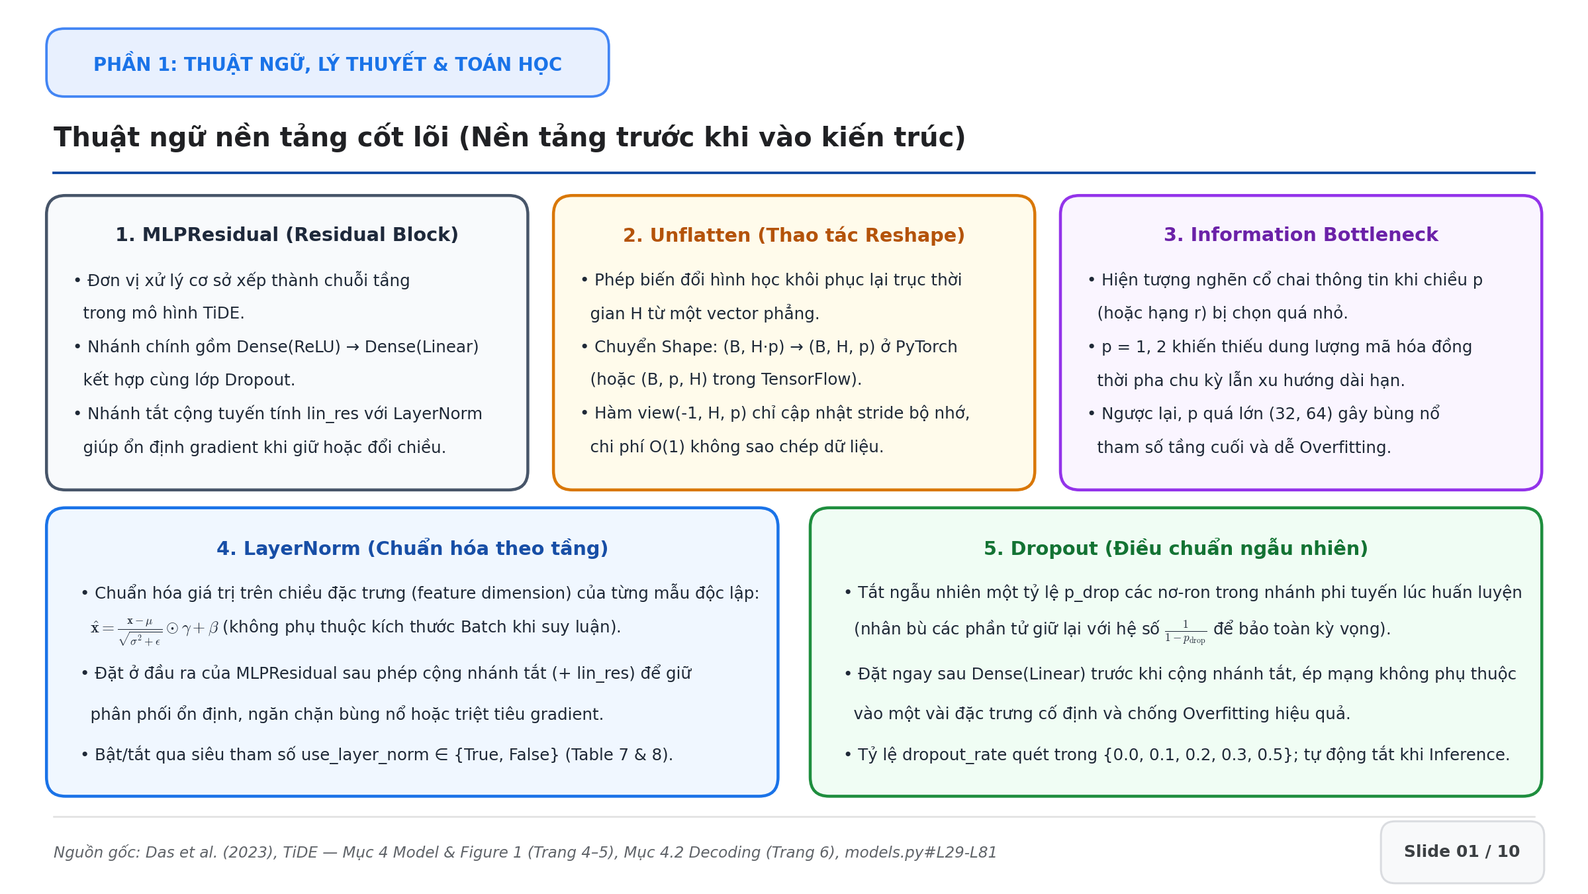
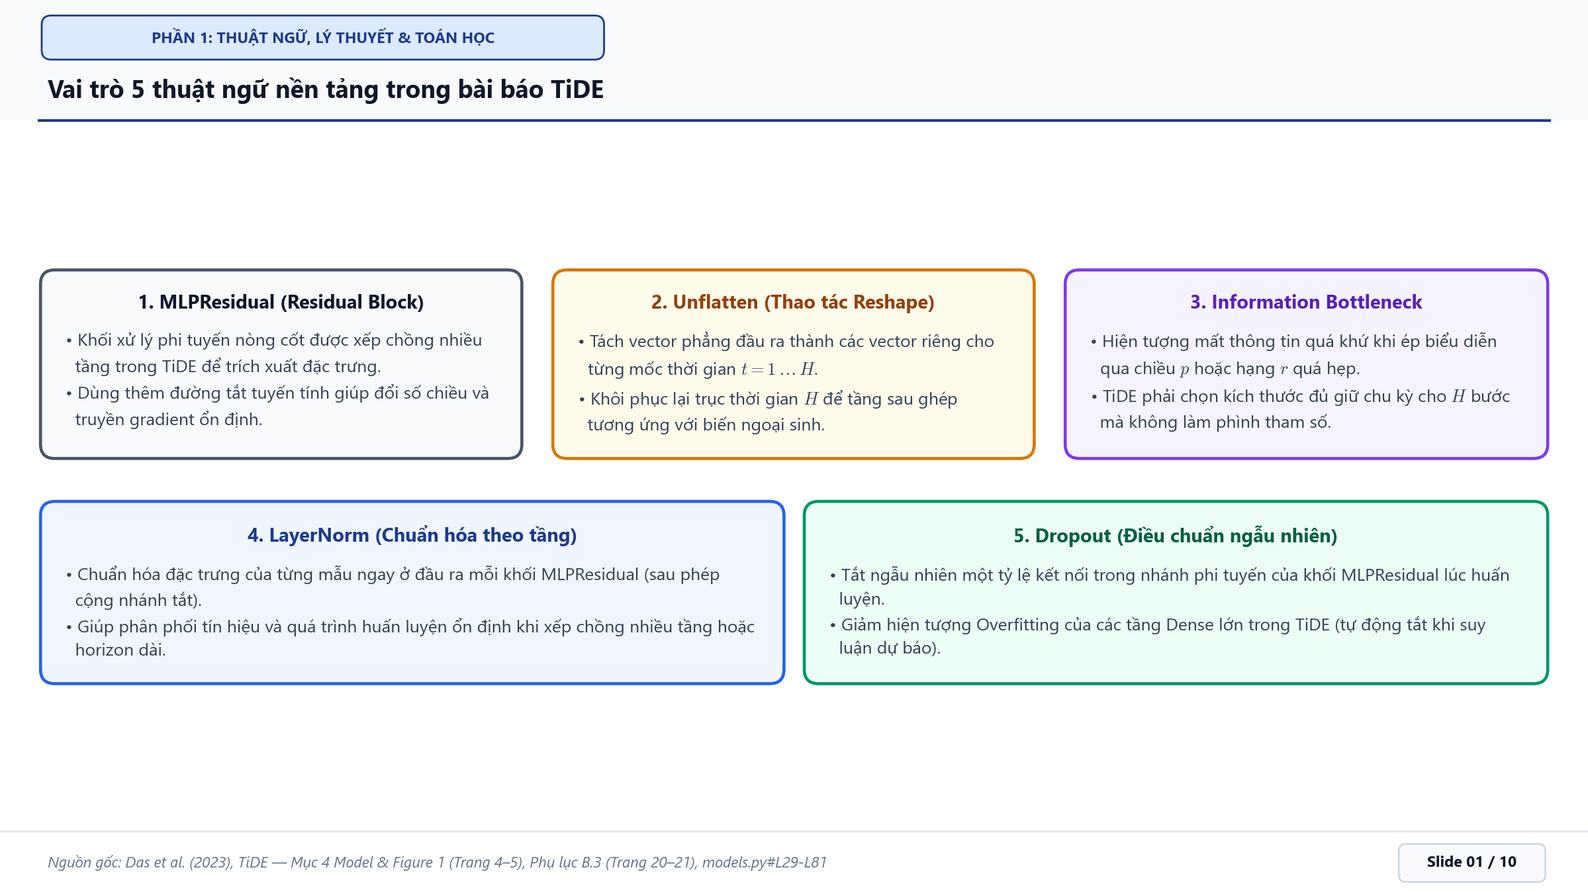
Make Slide 01 concise: explain only what the 5 foundational terms do in TiDE

diff --git a/tasks-Hieu/presentation/slide/script_thuyet_trinh_tung_slide.md b/tasks-Hieu/presentation/slide/script_thuyet_trinh_tung_slide.md
@@ -42,12 +42,12 @@ Chào mọi người! Trong kiến trúc TiDE, sau khi `Dense Encoder` nén toà
 * **$p$ là `decoderOutputDim`:** Số chiều đặc trưng của vector bối cảnh cho mỗi bước thời gian (thường chọn $p = 8, 16$ hoặc $32$). Nghĩa là tại mỗi thời điểm $t$, ta giữ lại một vector gồm $p$ thuộc tính để chứa bối cảnh lịch sử.
 * **$d_h = \text{hiddenSize}$ là bao nhiêu?** Trong Bảng 7 Phụ lục, tác giả quét trong tập $\{256, 512, 1024\}$. Với các tập dữ liệu lớn như `Electricity` và `Traffic`, **$d_h$ được chọn tối đa là $1024$**; còn các tập `ETT` nhỏ hơn thì chọn $d_h = 256$ hoặc $512$.
 
-**2. Năm thuật ngữ cốt lõi (chia 2 hàng trên slide):**
-* **Thẻ 1 — `MLPResidual` (Residual Block):** Đơn vị xử lý cơ sở lặp $n_d$ lần, gồm nhánh phi tuyến Linear $\to$ ReLU $\to$ Linear $\to$ Dropout, cộng song song với nhánh tắt tuyến tính `lin_res` và `LayerNorm`.
-* **Thẻ 2 — `Unflatten` (Thao tác Reshape):** Phép biến đổi hình học khôi phục lại trục thời gian $H$ từ vector phẳng `Shape: (B, H * p)` thành ma trận `Shape: (B, p, H)` theo đúng quy ước của bài báo gốc, chỉ cập nhật metadata stride bộ nhớ với chi phí $O(1)$ không tốn copy dữ liệu.
-* **Thẻ 3 — `Information Bottleneck` (Nghẽn cổ chai thông tin):** Hiện tượng mất mát thông tin khi ép biểu diễn qua không gian chiều $p$ quá nhỏ (như $p = 1, 2$) — thiếu dung lượng giữ cả pha chu kỳ lẫn xu hướng; ngược lại $p$ quá lớn ($32, 64$) lại gây bùng nổ tham số và Overfitting.
-* **Thẻ 4 — `LayerNorm` (Chuẩn hóa theo tầng):** Khác với `BatchNorm`, `LayerNorm` chuẩn hóa trực tiếp trên chiều đặc trưng của từng mẫu độc lập theo công thức trên slide nên không phụ thuộc kích thước Batch khi suy luận. Trong `MLPResidual`, nó đặt ở cuối cùng sau phép cộng nhánh tắt (`+ lin_res`) giúp ổn định gradient, và bật/tắt qua cờ `use_layer_norm`.
-* **Thẻ 5 — `Dropout` (Điều chuẩn ngẫu nhiên):** Tắt ngẫu nhiên một tỷ lệ `p_drop` các nơ-ron ở nhánh phi tuyến lúc huấn luyện (và nhân bù hệ số như trên slide để giữ nguyên kỳ vọng). Nó đặt ngay sau `Dense(Linear)` để chống Overfitting, với `dropout_rate` quét trong `{0.0, 0.1, 0.2, 0.3, 0.5}` và tự động tắt khi Inference.
+**2. Năm thuật ngữ cốt lõi (chia 2 hàng trên slide — giải thích ngắn gọn vai trò trong bài báo TiDE):**
+* **Thẻ 1 — `MLPResidual` (Residual Block):** Là khối xử lý phi tuyến nòng cốt được xếp chồng nhiều tầng trong TiDE để trích xuất đặc trưng; đường tắt tuyến tính đi kèm giúp đổi số chiều và truyền gradient ổn định.
+* **Thẻ 2 — `Unflatten` (Thao tác Reshape):** Tách vector phẳng đầu ra thành các vector riêng cho từng mốc thời gian $t = 1 \dots H$, khôi phục lại trục thời gian để tầng sau ghép tương ứng với biến ngoại sinh.
+* **Thẻ 3 — `Information Bottleneck`:** Hiện tượng mất thông tin quá khứ khi ép biểu diễn qua chiều $p$ hoặc hạng $r$ quá hẹp; nên trong TiDE cần chọn kích thước đủ giữ chu kỳ cho $H$ bước mà không làm phình tham số.
+* **Thẻ 4 — `LayerNorm` (Chuẩn hóa theo tầng):** Chuẩn hóa đặc trưng của từng mẫu ngay ở đầu ra mỗi khối `MLPResidual` (sau phép cộng nhánh tắt), giúp phân phối tín hiệu và quá trình huấn luyện ổn định khi xếp chồng nhiều tầng hoặc horizon dài.
+* **Thẻ 5 — `Dropout` (Điều chuẩn ngẫu nhiên):** Tắt ngẫu nhiên một tỷ lệ kết nối trong nhánh phi tuyến của khối `MLPResidual` lúc huấn luyện để giảm Overfitting của các tầng Dense lớn (tự động tắt khi suy luận dự báo).
 
 Nắm chắc 5 thuật ngữ và các con số này rồi, giờ chúng ta đi vào vị trí kiến trúc trên Figure 1 ở Slide 02 nhé!
 
@@ -100,7 +100,7 @@ Nói ngắn gọn, vai trò sống còn của Dense Decoder là **tạo sẵn $H
 * Mọi lát cắt $\mathbf{d}_1, \dots, \mathbf{d}_H$ đều được trích xuất độc lập trực tiếp từ $\mathbf{e}^{(i)}$, không bước nào lấy output của bước trước làm input.
 * Nhờ đó, TiDE **triệt tiêu 100% hiện tượng tích lũy sai số**, đạt độ phức tạp $O(1)$ trên GPU và **chạy nhanh hơn Transformer từ 5 đến 10 lần**!
 
-Vậy câu hỏi học thuật lớn nhất đặt ra là: *"Nếu các bước chạy độc lập như vậy, cơ sở toán học nào chứng minh chúng không bị mất mối tương quan chuỗi thời gian giữa các ngày?"* Chúng ta cùng sang Slide 03B để xem các công thức chứng minh nhé!
+Vậy câu hỏi đặt ra là: *"Nhìn từ góc độ code thực tế, tại sao các bước chạy độc lập trên GPU nhưng vẫn giữ được mối liên kết chặt chẽ với nhau?"* Chúng ta cùng sang Slide 03B để soi thẳng vào luồng code `models.py` nhé!
 
 * **🎬 Tương tác & Điểm nhấn màn hình (Visual Cues):**
   * Chỉ vào cột trái: gạch chéo đỏ vào vòng lặp tuần tự và mũi tên tích lũy sai số.
@@ -108,33 +108,33 @@ Vậy câu hỏi học thuật lớn nhất đặt ra là: *"Nếu các bước 
 
 ---
 
-### 🟢 SLIDE 03B / 10 — BẢN CHẤT TOÁN HỌC: ĐỘC LẬP TÍNH TOÁN VS TƯƠNG QUAN BIỂU DIỄN
+### 🟢 SLIDE 03B / 10 — BẢN CHẤT TRONG CODE (`models.py`): ĐỘC LẬP TÍNH TOÁN VS TƯƠNG QUAN BIỂU DIỄN
 
-* **Ảnh slide:** `slide_03b_ban_chat_toan_hoc.png` ([Xem ảnh trong gallery](./slide_images_gallery.md#slide-03b--10-bản-chất-toán-học--độc-lập-tính-toán-vs-tương-quan-biểu-diễn))
-* **Thời lượng dự kiến:** 60 – 70 giây.
-* **Mục tiêu slide:** Giải thích trực quan ý nghĩa hệ thống công thức trên slide để chứng minh Dense Decoder **vừa độc lập tính toán ($O(1)$ GPU) vừa tương quan biểu diễn sâu sắc**.
+* **Ảnh slide:** `slide_03b_ban_chat_toan_hoc.png` ([Xem ảnh trong gallery](./slide_images_gallery.md#slide-03b--10-bản-chất-trong-code-modelspy--độc-lập-tính-toán-vs-tương-quan-biểu-diễn))
+* **Thời lượng dự kiến:** 55 – 65 giây.
+* **Mục tiêu slide:** Giải thích trực tiếp bằng luồng chạy thực tế trong code `models.py`: Tại sao tầng cuối `Dense(p * H)` + `tf.reshape` lại giúp tính toán độc lập trên GPU mà vẫn giữ trọn vẹn sự tương quan giữa các bước thời gian.
 
-![Slide 03B: Bản chất toán học](./images/slide_03b_ban_chat_toan_hoc.png)
+![Slide 03B: Bản chất trong code](./images/slide_03b_ban_chat_toan_hoc.png)
 
 #### 🎙 Lời thoại trình bày (Team Tech-talk):
 
-Slide 03B này tổng hợp toàn bộ hệ thống công thức để trả lời câu hỏi: **"Làm sao Dense Decoder vừa độc lập tính toán trên GPU nhưng các bước thời gian vẫn tương quan mật thiết với nhau?"**
+Slide 03B này giải thích thẳng từ góc độ lập trình trong file `models.py` câu hỏi: **"Làm sao Dense Decoder vừa chạy độc lập trên GPU nhưng các bước thời gian vẫn tương quan mật thiết với nhau?"**
 
-Anh em nhìn vào 2 cột công thức trên màn hình:
+Anh em nhìn vào 2 cột trên màn hình:
 
-**Cột bên trái — Độc lập tính toán triệt để (Computational Independence):**
-* **Ở mục 1 trên slide**, ma trận chiếu tầng cuối $\mathbf{W}$ được bóc tách thành $H$ ma trận con tương ứng với từng bước thời gian $t$, nhân trực tiếp với tầng ẩn trước đó để ra lát cắt $\mathbf{d}_t$.
-* **Nhìn vào công thức đạo hàm riêng bằng 0 ở mục 2**: Điều này chứng minh trên đồ thị tính toán **hoàn toàn không có cạnh nối nào giữa bước $t$ và bước $s$**. Bước này không chờ và không lấy đầu vào từ bước kia.
-* **Chốt lại ở mục 3**: Toàn bộ phép tính thu gọn thành đúng một toán tử nhân ma trận (GEMM Kernel) duy nhất trên GPU, chạy song song đồng loạt trên hàng nghìn nhân CUDA với độ sâu $O(1)$.
+**Cột bên trái — Độc lập tính toán (Từ code `Dense` + `Reshape`):**
+* **Thứ nhất, không hề có vòng lặp `for t in range(H)`:** Trong `models.py`, tầng cuối cùng chỉ là **1 lớp `Dense(p * H)` duy nhất**. Nó xuất thẳng ra một tensor phẳng gồm toàn bộ $H \cdot p$ phần tử rồi gọi `tf.reshape` thành `(B, p, H)`.
+* **Thứ hai, không phụ thuộc đầu ra bước trước:** Mọi lát cắt $\mathbf{d}_t$ và $\mathbf{d}_{t-1}$ đều cùng đọc trực tiếp từ một nguồn là tensor `encoded`. Bước sau hoàn toàn không phải chờ kết quả dự đoán `y_pred[t-1]` của bước trước làm input, nên triệt tiêu 100% lỗi tích lũy sai số.
+* **Thứ ba, tối ưu phần cứng GPU:** Toàn bộ lớp `Dense(p * H)` được thực thi bằng đúng 1 phép nhân ma trận trên GPU, cho phép hàng nghìn nhân CUDA tính đồng thời cả $H$ bước trong 1 chu kỳ $O(1)$, nhanh hơn Transformer 5 đến 10 lần.
 
-**Cột bên phải — Tương quan biểu diễn sâu sắc (Representational Correlation):**
-* **Ở mục 1 — Luật Hiệp phương sai toàn phần trên slide:** Dù độc lập có điều kiện khi đã biết $\mathbf{e}^{(i)}$, nhưng công thức hiệp phương sai biên ở dưới vẫn **khác không**! Lý do là vì mọi bước đều cùng chia sẻ nguồn gốc từ vector bối cảnh lịch sử $\mathbf{e}^{(i)}$, tạo nên sự tương quan xuyên suốt toàn horizon.
-* **Ở mục 2 — Công thức Gradient khi Backprop:** Khi huấn luyện, gradient của tất cả $H$ bước đều cộng dồn về để cập nhật chung vector $\mathbf{e}^{(i)}$. Việc cùng kéo $\mathbf{e}^{(i)}$ về một nghiệm tối ưu chung ép các ma trận chiếu phải học được tính trơn tru và nhịp nhàng giữa các ngày liên tiếp.
-* **Ở mục 3 — Nhánh đường tắt Global Residual:** Công thức cuối cùng nối thẳng dữ liệu quá khứ sang tương lai qua ma trận tuyến tính, giúp bảo toàn nguyên vẹn tính tự hồi quy và các chu kỳ mùa vụ (như 24 giờ, 168 giờ).
+**Cột bên phải — Tương quan biểu diễn (Từ luồng dữ liệu trong code):**
+* **Thứ nhất, mọi bước đều sinh ra từ chung 1 tensor gốc `encoded`:** Tensor `encoded` từ Encoder truyền lên đã nén trọn vẹn xu hướng và chu kỳ của toàn bộ quá khứ. Vì cả $H$ cột $\mathbf{d}_t$ đều cắt ra từ chung nguồn thông tin này nên chúng liên kết chặt chẽ với nhau.
+* **Thứ hai, tối ưu chung 1 hàm Loss (MSE) toàn horizon:** Lúc train, hàm MSE tính sai số đồng thời trên cả $H$ bước tương lai. Khi Backprop, gradient từ cả $H$ ngày cùng cập nhật ngược về chung một bộ trọng số `Dense(p * H)` và `encoded`, ép các cột kề nhau tự học tính mượt mà, liên tục.
+* **Thứ ba, nhánh tắt tuyến tính `Global Residual` trong code:** `models.py` cộng thêm một lớp tuyến tính nối thẳng từ toàn bộ cửa sổ quá khứ `past_y` ($L$) sang toàn bộ tương lai ($H$), giữ nguyên các chu kỳ tự hồi quy như 24h hay 168h.
 
 * **🎬 Tương tác & Điểm nhấn màn hình (Visual Cues):**
-  * Chỉ sang cột trái: trỏ vào công thức đạo hàm bằng 0 ở mục 2, nhấn mạnh đồ thị tính toán phẳng $O(1)$.
-  * Chỉ sang cột phải: trỏ vào công thức hiệp phương sai khác không ở mục 1 và công thức gradient tổng ở mục 2.
+  * Chỉ sang cột trái: nhấn mạnh *"Không có vòng lặp for, chỉ 1 lớp Dense(p * H) + reshape"*.
+  * Chỉ sang cột phải: nhấn mạnh *"Chung đầu vào encoded, chung Loss toàn horizon, và có nhánh Global Residual nối thẳng L sang H"*.
 
 ---
 

diff --git a/tasks-Hieu/presentation/slide/slide_01_phan_1_ly_thuyet_va_toan_hoc.md b/tasks-Hieu/presentation/slide/slide_01_phan_1_ly_thuyet_va_toan_hoc.md
@@ -4,19 +4,19 @@
 
 ---
 
-## Slide 01 / 10 — Thuật ngữ nền tảng cốt lõi (Nền tảng trước khi vào kiến trúc)
+## Slide 01 / 10 — Vai trò 5 thuật ngữ nền tảng trong bài báo TiDE
 
-![Slide 01: Thuật ngữ nền tảng cốt lõi](./images/slide_01_bang_thuat_ngu_dense_decoder.png)
+![Slide 01: Vai trò 5 thuật ngữ nền tảng](./images/slide_01_bang_thuat_ngu_dense_decoder.png)
 
-### Giải thích chi tiết 5 thuật ngữ nền tảng trước khi đi vào kiến trúc
+### Giải thích ngắn gọn vai trò từng thuật ngữ trong bài báo TiDE
 
-| STT | Thuật ngữ | Bản chất & Ký hiệu Shape tổng quát |
+| STT | Thuật ngữ | Vai trò trong bài báo TiDE |
 | :--- | :--- | :--- |
-| **1** | **MLPResidual (Residual Block)** | Đơn vị xử lý cơ sở xếp thành chuỗi tầng trong TiDE: nhánh chính gồm `Dense(ReLU)` $\rightarrow$ `Dense(Linear)` + Dropout, cộng song song với nhánh tắt tuyến tính `lin_res` và `LayerNorm`. |
-| **2** | **Unflatten (Thao tác Reshape)** | Phép biến đổi hình học khôi phục lại trục thời gian $H$ từ một vector phẳng có Shape: $(B, H \cdot p)$ sang ma trận 2 chiều Shape: $(B, H, p)$ trong PyTorch (hoặc $(B, p, H)$ trong TF), chi phí bộ nhớ $O(1)$. |
-| **3** | **Information Bottleneck (Nghẽn cổ chai thông tin)** | Hiện tượng mất mát thông tin khi ép biểu diễn đi qua không gian có số chiều $p$ (hoặc hạng $r$) quá nhỏ ($p = 1, 2$), thiếu dung lượng mã hóa đồng thời pha chu kỳ và xu hướng; ngược lại $p$ quá lớn ($32, 64$) gây bùng nổ tham số và Overfitting. |
-| **4** | **LayerNorm (Chuẩn hóa theo tầng)** | Chuẩn hóa trên chiều đặc trưng của từng mẫu độc lập ($\hat{\mathbf{x}} = \frac{\mathbf{x} - \mu}{\sqrt{\sigma^2 + \epsilon}} \odot \gamma + \beta$), đặt ở đầu ra sau phép cộng nhánh tắt (`+ lin_res`) giúp ổn định phân phối và gradient; điều chỉnh qua cờ `use_layer_norm` $\in \{\text{True}, \text{False}\}$. |
-| **5** | **Dropout (Điều chuẩn ngẫu nhiên)** | Tắt ngẫu nhiên một tỷ lệ $p_{\mathrm{drop}}$ các nơ-ron nhánh phi tuyến lúc train (nhân bù $\frac{1}{1 - p_{\mathrm{drop}}}$), đặt ngay sau `Dense(Linear)` để chống Overfitting; tỷ lệ `dropout_rate` $\in \{0.0, 0.1, 0.2, 0.3, 0.5\}$ và tự động tắt khi inference. |
+| **1** | **MLPResidual (Residual Block)** | Khối xử lý phi tuyến nòng cốt được xếp chồng nhiều tầng trong TiDE để trích xuất đặc trưng; dùng thêm đường tắt tuyến tính giúp đổi số chiều và truyền gradient ổn định. |
+| **2** | **Unflatten (Thao tác Reshape)** | Tách vector phẳng đầu ra thành các vector riêng cho từng mốc thời gian $t = 1 \dots H$, khôi phục trục thời gian $H$ để tầng sau ghép tương ứng với biến ngoại sinh. |
+| **3** | **Information Bottleneck** | Hiện tượng mất thông tin quá khứ khi ép biểu diễn qua chiều $p$ hoặc hạng $r$ quá hẹp; TiDE phải chọn kích thước đủ giữ chu kỳ cho $H$ bước mà không làm phình tham số. |
+| **4** | **LayerNorm (Chuẩn hóa theo tầng)** | Chuẩn hóa đặc trưng của từng mẫu ngay ở đầu ra mỗi khối `MLPResidual` (sau phép cộng nhánh tắt), giúp phân phối tín hiệu và quá trình huấn luyện ổn định khi xếp chồng nhiều tầng hoặc horizon dài. |
+| **5** | **Dropout (Điều chuẩn ngẫu nhiên)** | Tắt ngẫu nhiên một tỷ lệ kết nối trong nhánh phi tuyến của khối `MLPResidual` lúc huấn luyện nhằm giảm Overfitting của các tầng Dense lớn (tự động tắt khi suy luận dự báo). |
 
 ---
 
@@ -48,70 +48,23 @@ $$
 
 ---
 
-## Slide 03B / 10 — Bản chất toán học: Độc lập tính toán vs Tương quan biểu diễn
+## Slide 03B / 10 — Bản chất trong Code (`models.py`): Độc lập tính toán vs Tương quan biểu diễn
 
-![Slide 03B: Bản chất toán học](./images/slide_03b_ban_chat_toan_hoc.png)
+![Slide 03B: Bản chất trong code](./images/slide_03b_ban_chat_toan_hoc.png)
 
-### Hệ thống công thức toán học chứng minh
+### Giải thích từ luồng chạy thực tế trong `models.py`
 
-#### A. Công thức chứng minh: Độc lập tính toán triệt để ($O(1)$ Hardware Parallelism)
+#### A. Độc lập tính toán (Từ code tầng `Dense` + `Reshape`)
 
-Xét ma trận chiếu tầng cuối cùng $\mathbf{W} \in \mathbb{R}^{(H \cdot p) \times d_h}$ và vector định thiên $\mathbf{b} \in \mathbb{R}^{H \cdot p}$. Ta phân rã $\mathbf{W}$ và $\mathbf{b}$ thành $H$ khối con xếp chồng theo trục thời gian:
+1. **Không hề có vòng lặp `for t in range(H)`:** Trong `models.py`, tầng cuối cùng của Dense Decoder chỉ là một lớp `Dense(p * H)` duy nhất, xuất thẳng ra toàn bộ $H \cdot p$ phần tử rồi gọi `tf.reshape(decoder_out, [bsize, -1, self.pred_len])` để tạo tensor `(B, p, H)`.
+2. **Không phụ thuộc đầu ra bước trước:** Mọi lát cắt cột $\mathbf{d}_t$ và $\mathbf{d}_{t-1}$ cùng đọc trực tiếp từ 1 nguồn duy nhất là tensor `encoded`. Bước sau không phải chờ kết quả dự đoán `y_pred[t-1]` của bước trước làm input, qua đó triệt tiêu 100% lỗi tích lũy sai số (Error Accumulation).
+3. **Chạy 1 lệnh nhân ma trận $O(1)$ trên GPU:** Toàn bộ lớp `Dense(p * H)` thực thi bằng đúng 1 phép nhân ma trận, cho phép hàng nghìn nhân CUDA tính đồng thời cả $H$ bước trong 1 chu kỳ $O(1)$ (giúp TiDE nhanh hơn Transformer 5x–10x theo Mục 5.3).
 
-$$
-\mathbf{W} = \begin{bmatrix} \mathbf{W}_1 \\ \mathbf{W}_2 \\ \vdots \\ \mathbf{W}_H \end{bmatrix}, \quad \mathbf{b} = \begin{bmatrix} \mathbf{b}_1 \\ \mathbf{b}_2 \\ \vdots \\ \mathbf{b}_H \end{bmatrix} \quad (\text{với } \mathbf{W}_t \in \mathbb{R}^{p \times d_h},\; \mathbf{b}_t \in \mathbb{R}^p)
-$$
+#### B. Tương quan biểu diễn (Từ luồng dữ liệu & tối ưu hóa trong code)
 
-Lát cắt vector bối cảnh tại từng thời điểm $t \in \{1, \dots, H\}$ được tính trực tiếp từ tầng ẩn $\mathbf{v}^{(n_d-1)} \in \mathbb{R}^{d_h}$:
-
-$$
-\mathbf{d}_t^{(i)} = \mathbf{W}_t \mathbf{v}^{(n_d-1)} + \mathbf{b}_t \in \mathbb{R}^p
-$$
-
-Đạo hàm riêng chéo giữa hai thời điểm bất kỳ $t$ và $s$ ($t \neq s$):
-
-$$
-\frac{\partial \mathbf{d}_t^{(i)}}{\partial \mathbf{d}_s^{(i)}} = \mathbf{0}, \quad \forall t \neq s
-$$
-
-> [!NOTE]
-> **Ý nghĩa Độc lập tính toán:** Đồ thị tính toán hoàn toàn không tồn tại cạnh nối giữa bước $t$ và bước $s$. Phép tính $\mathbf{g}^{(i)} = \mathbf{W}\mathbf{v} + \mathbf{b}$ được GPU thực thi như 1 toán tử GEMM (General Matrix Multiply) song song đa luồng duy nhất với độ sâu đồ thị là $O(1)$.
-
-#### B. Công thức chứng minh: Tương quan biểu diễn sâu sắc (Representational Correlation)
-
-Dù độc lập về đồ thị tính toán, các vector bối cảnh $\{\mathbf{d}_t^{(i)}\}_{t=1}^H$ vẫn tương quan chặt chẽ nhờ 3 cơ chế toán học:
-
-**1. Luật Hiệp phương sai toàn phần (Law of Total Covariance / Latent Coupling):**
-
-Theo mô hình biến ẩn, khi đã biết trạng thái toàn cục $\mathbf{e}^{(i)}$, các bước tương lai độc lập có điều kiện: $\mathrm{Cov}(\mathbf{d}_t^{(i)}, \mathbf{d}_s^{(i)} \mid \mathbf{e}^{(i)}) = \mathbf{0}$. Tuy nhiên, hiệp phương sai biên giữa hai bước thời gian bất kỳ $t$ và $s$ ($t \neq s$) được khai triển:
-
-$$
-\mathrm{Cov}(\mathbf{d}_t^{(i)}, \mathbf{d}_s^{(i)}) = \mathbb{E}_{\mathbf{e}}\!\left[\underbrace{\mathrm{Cov}(\mathbf{d}_t^{(i)}, \mathbf{d}_s^{(i)} \mid \mathbf{e}^{(i)})}_{= \mathbf{0}}\right] + \mathrm{Cov}_{\mathbf{e}}\!\left(\mathbb{E}[\mathbf{d}_t^{(i)} \mid \mathbf{e}^{(i)}], \, \mathbb{E}[\mathbf{d}_s^{(i)} \mid \mathbf{e}^{(i)}]\right)
-$$
-
-$$
-\mathrm{Cov}(\mathbf{d}_t^{(i)}, \mathbf{d}_s^{(i)}) = \mathbf{W}_t \, \mathbf{\Sigma}_{\mathbf{e}} \, \mathbf{W}_s^\top \neq \mathbf{0}
-$$
-
-Trong đó $\mathbf{\Sigma}_{\mathbf{e}} = \mathrm{Cov}(\mathbf{e}^{(i)}) \in \mathbb{R}^{d_h \times d_h}$ là ma trận hiệp phương sai của vector bối cảnh toàn cục. Vì $\mathbf{\Sigma}_{\mathbf{e}}$ có các phần tử khác không, ma trận $\mathbf{W}_t \mathbf{\Sigma}_{\mathbf{e}} \mathbf{W}_s^\top$ kích hoạt mối tương quan qua lại liên tục giữa mọi cặp bước thời gian $(t, s)$.
-
-**2. Động lực học liên kết Gradient khi Backpropagation (Joint Optimization):**
-
-Với hàm mất mát toàn horizon $\mathcal{L} = \sum_{t=1}^H \ell(\hat{y}_t^{(i)}, y_t^{(i)})$, gradient cập nhật vector ẩn chung $\mathbf{e}^{(i)}$ nhận thông tin từ toàn bộ $H$ bước đồng thời:
-
-$$
-\nabla_{\mathbf{e}^{(i)}} \mathcal{L} = \sum_{t=1}^H \mathbf{W}_t^\top \nabla_{\mathbf{d}_t^{(i)}} \mathcal{L}
-$$
-
-Mọi bước $t$ cùng đồng thời kéo vector $\mathbf{e}^{(i)}$ về một nghiệm tối ưu trên đa tạp dữ liệu chung, buộc các khối $\mathbf{W}_t$ phải học được tính trơn tru thời gian (temporal smoothness) nhịp nhàng qua từng bước.
-
-**3. Khóa tương quan chuỗi trực tiếp qua Global Residual:**
-
-$$
-\hat{\mathbf{y}}_{\mathrm{res}}^{(i)} = \mathbf{W}_{\mathrm{res}} \mathbf{y}_{1:L}^{(i)} \implies \hat{y}_{\mathrm{res}, t}^{(i)} = \sum_{l=1}^L W_{\mathrm{res}, t, l} \cdot y_l^{(i)}
-$$
-
-Ma trận $\mathbf{W}_{\mathrm{res}} \in \mathbb{R}^{H \times L}$ nối trực tiếp từ lịch sử sang tương lai, bảo đảm mọi tương quan trễ tuyến tính (như chu kỳ 24h, 168h) được truyền dẫn nguyên vẹn sang từng bước dự báo $t$.
+1. **Mọi bước sinh ra từ chung 1 tensor gốc (`encoded`):** Tensor `encoded` từ Encoder đã nén trọn vẹn xu hướng, chu kỳ và tương tác đa biến của toàn bộ quá khứ. Vì cả $H$ cột $\mathbf{d}_t$ đều cắt ra từ chung nguồn thông tin này nên chúng liên kết chặt chẽ với nhau.
+2. **Tối ưu chung 1 hàm Loss (MSE) toàn horizon:** Khi huấn luyện, hàm MSE tính sai số đồng thời trên toàn bộ $H$ bước tương lai. Gradient từ cả $H$ ngày cùng cập nhật ngược về chung bộ trọng số `Dense(p * H)` và `encoded`, ép các cột kế tiếp nhau tự học tính mượt mà, liên tục.
+3. **Nhánh tắt tuyến tính `Global Residual` (`models.py`):** Code cộng thêm một lớp tuyến tính `+ self.linear_skip(past_y)` nối thẳng từ cửa sổ quá khứ $L$ sang toàn bộ tương lai $H$, bảo toàn trực tiếp các chu kỳ tự hồi quy (như 24h, 168h).
 
 ---
 
